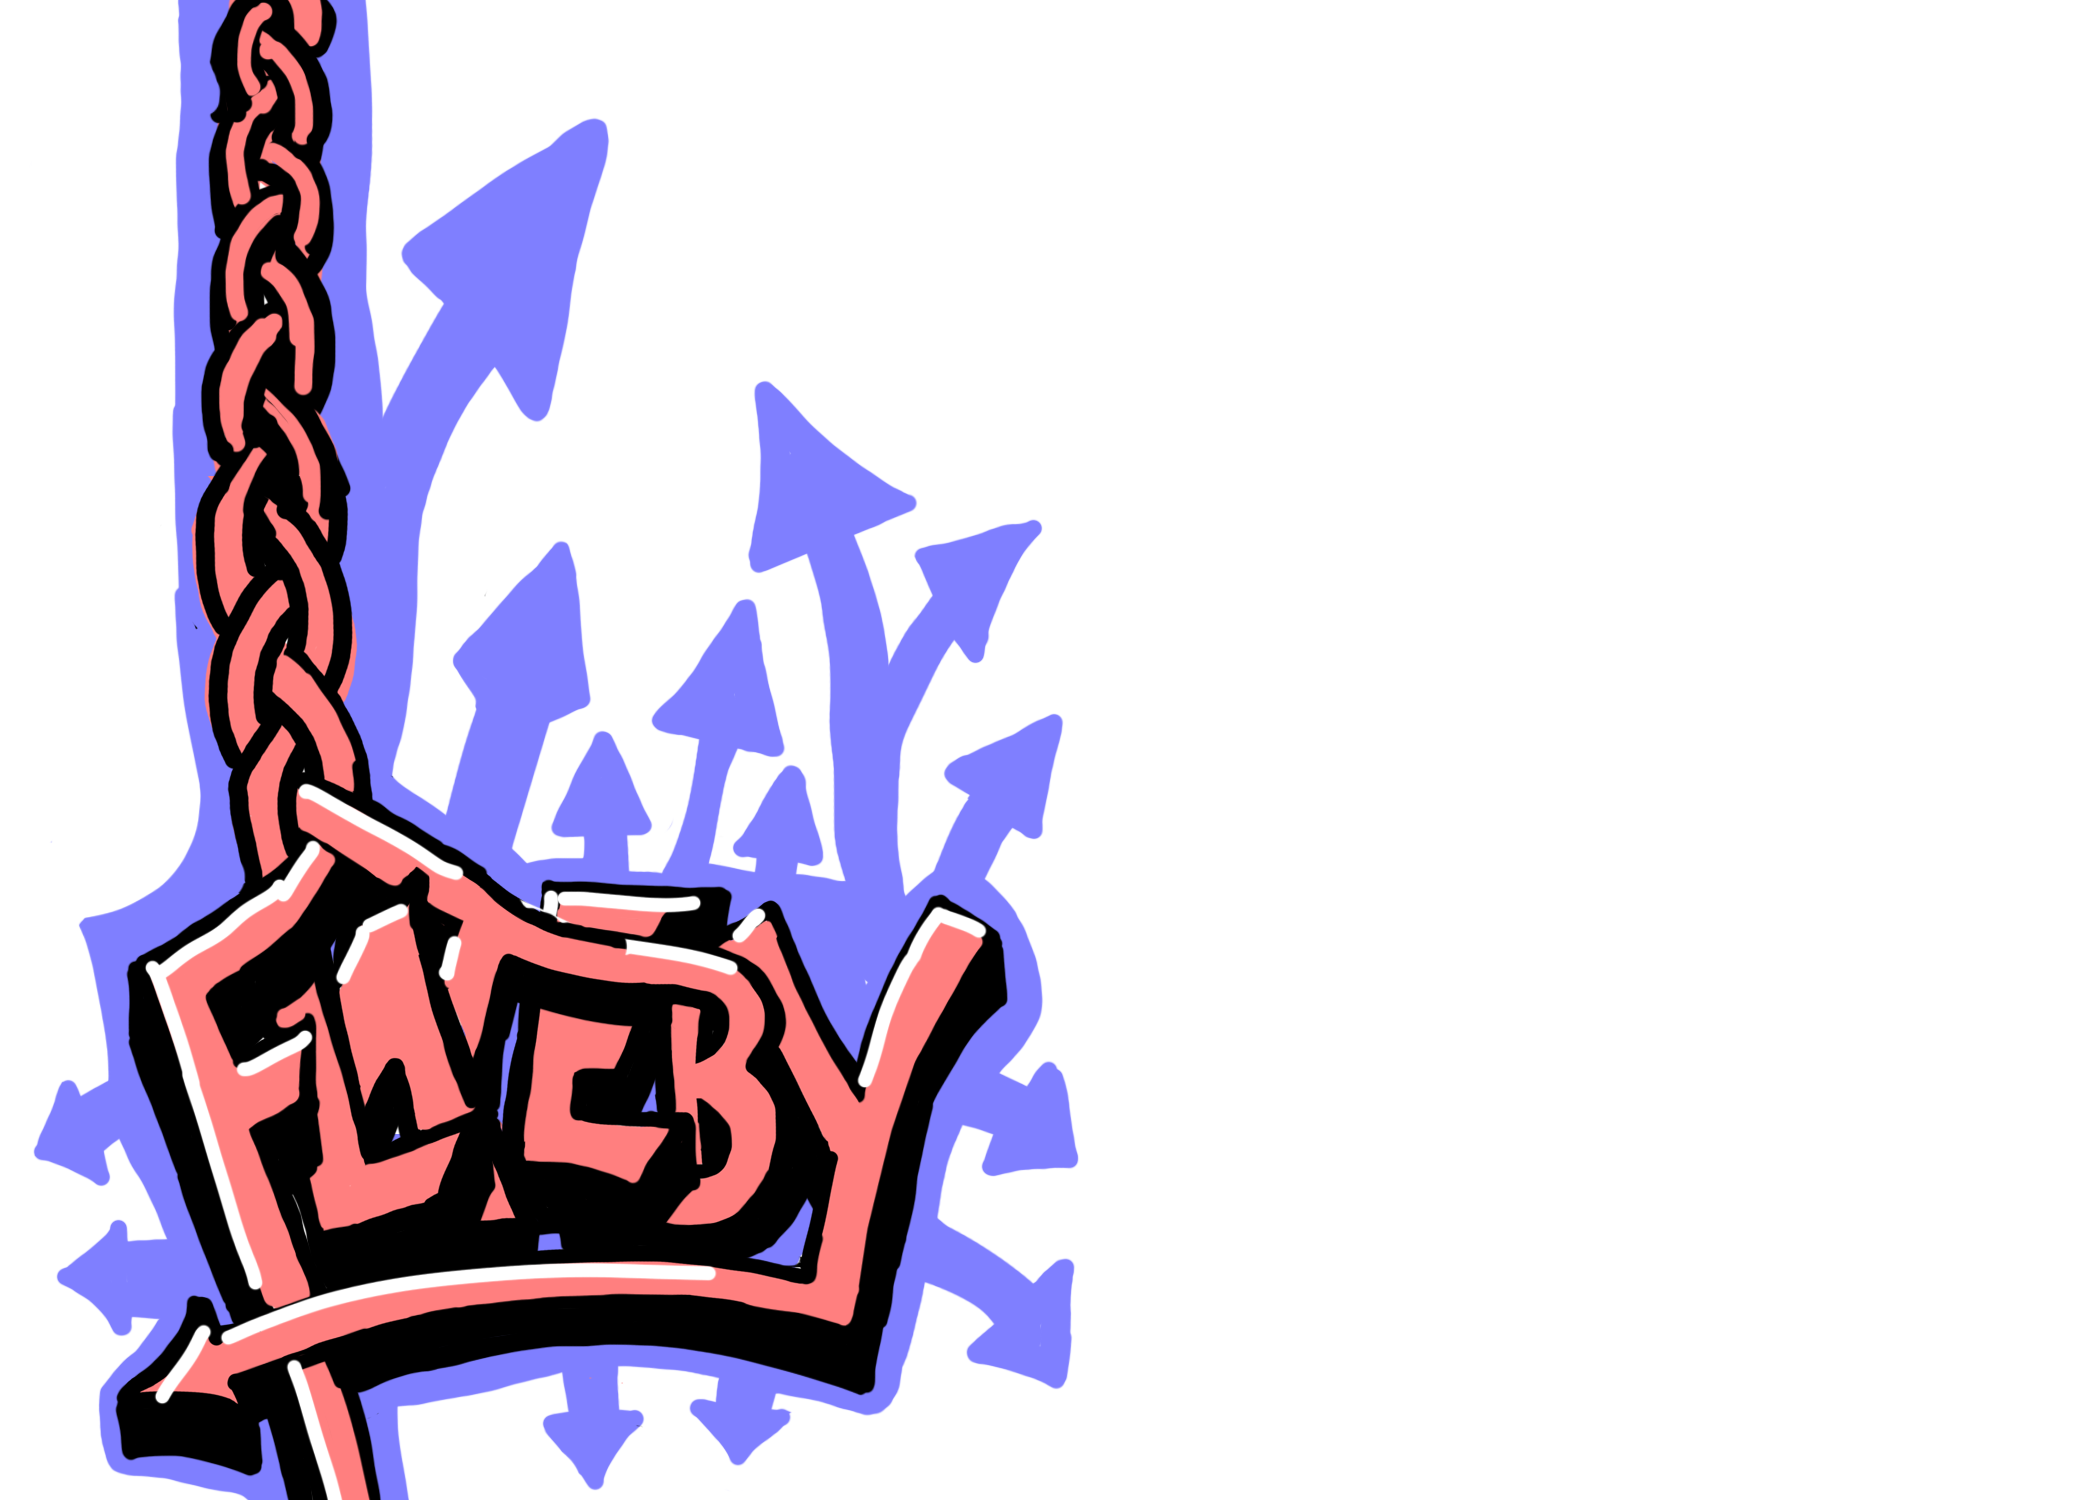
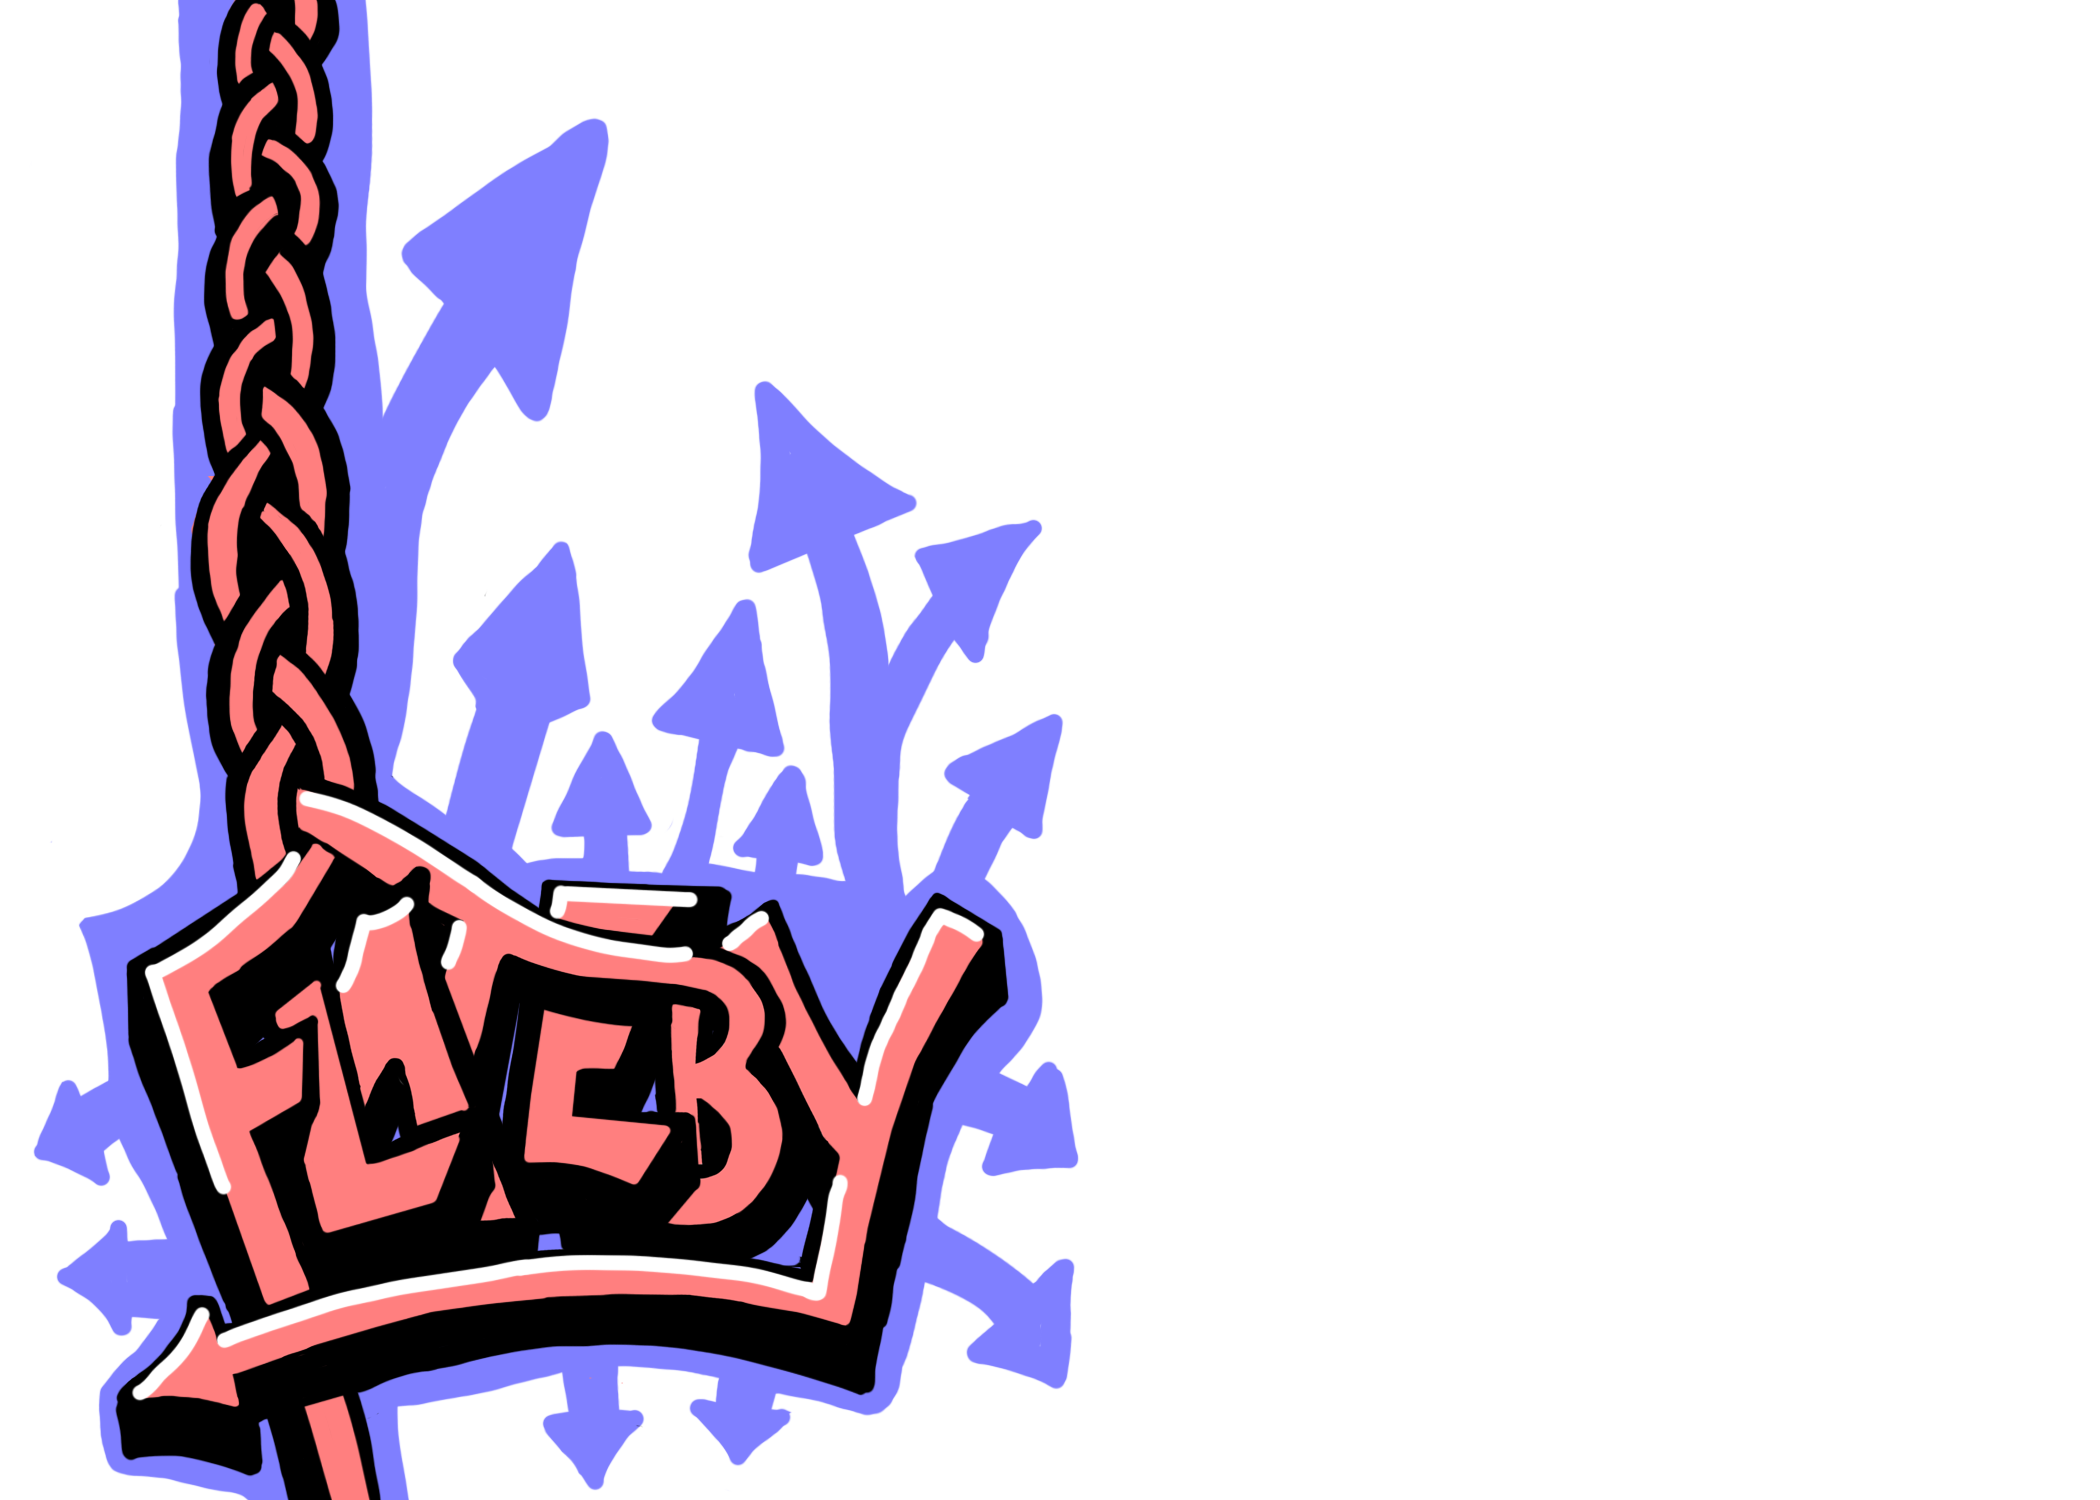
Update some more splashers

diff --git a/src/waller.js b/src/waller.js
@@ -30,9 +30,17 @@
         new THREE.MeshBasicMaterial({
           transparent: true,
         }));
+      this.splashoBackBillboard = new THREE.Mesh(
+        new THREE.PlaneGeometry(splashoScale * 2100 / 1500, splashoScale),
+        new THREE.MeshBasicMaterial({
+          transparent: true,
+        }));
 
       this.scene.add(this.splashoBillboard);
+      this.scene.add(this.splashoBackBillboard);
 
+      this.flatShadeTexture = Loader.loadTexture('res/flatshadesociety-graffiti.png');
+      this.flatShadeSpinnerTexture = Loader.loadTexture('res/flatshadesociety-spinner-graffiti.png');
       this.skogTexture = Loader.loadTexture('res/skog-graffiti.png');
       this.demoTexture = Loader.loadTexture('res/demo-graffiti.png');
       this.campingTexture = Loader.loadTexture('res/camping-graffiti.png');
@@ -375,8 +383,35 @@
       /* splashers */
 
       this.splashoBillboard.position.z = 0.1;
+      this.splashoBackBillboard.visible = false;
+      this.splashoBackBillboard.position.z = 0.08;
+      this.splashoBillboard.material.opacity = 1;
+      this.splashoBackBillboard.material.opacity = 1;
+      this.splashoBillboard.scale.set(1, 1, 1);
+      this.splashoBackBillboard.scale.set(1, 1, 1);
       const BAR = BEAN / 24 | 0;
-      if(BAR >= 9 && BAR < 10) {
+      if(BAR >= 5 && BAR < 6) {
+        const t = F(frame,  5 * 24, 24);
+        const t2 = F(frame, 6 * 24 - 6, 6);
+        //this.camera.position.x = lerp(-0.05, -0.12, t);
+        //this.camera.position.y = -0.03;
+        //this.camera.position.z = 0.38;
+
+        this.splashoBillboard.visible = true;
+        this.splashoBillboard.position.x = 0;
+        this.splashoBillboard.position.y = 0;
+        this.splashoBillboard.material.map = this.flatShadeTexture;
+        this.splashoBackBillboard.visible = true;
+        this.splashoBackBillboard.material.map = this.flatShadeSpinnerTexture;
+        this.splashoBackBillboard.rotation.z = lerp(0, - Math.PI * 1.4, F(frame, 120, 24));
+        this.splashoBackBillboard.position.y = -0.005;
+        const scaler = easeOut(1, 0, F(frame, 138, 3));
+        this.light1.angle = easeOut(0.85, 0.65, F(frame, 138, 3));
+        this.splashoBillboard.scale.set(scaler, scaler, 1);
+        this.splashoBackBillboard.scale.set(scaler, scaler, 1);
+        this.splashoBillboard.material.opacity = scaler;
+        this.splashoBackBillboard.material.opacity = scaler;
+      } else if(BAR >= 9 && BAR < 10) {
         const t = F(frame,  9 * 24, 24);
         const t2 = F(frame, 10 * 24 - 6, 6);
         this.camera.position.x = lerp(-0.05, -0.12, t);

diff --git a/src/splasherNode.js b/src/splasherNode.js
@@ -9,6 +9,7 @@
       super(id, options);
 
       this.flatshadeMap = Loader.loadTexture('res/flatshadesociety-graffiti.png');
+      this.flatshadeSpinnerMap = Loader.loadTexture('res/flatshadesociety-spinner-graffiti.png');
       this.flatebyMap = Loader.loadTexture('res/flateby-marker-overlay-graffiti.png');
       this.solMap = Loader.loadTexture('res/sol-graffiti.png');
       this.skogMap = Loader.loadTexture('res/skog-graffiti.png');
@@ -37,8 +38,10 @@
       this.uniforms.framiness.value = 1;
       const BAR = BEAN / 24;
       if(BAR >= 5 && BAR < 6) {
+        /*
         this.uniforms.overlayer.value = 1;
         this.uniforms.image.value = this.flatshadeMap;
+        this.uniforms.spinnerImage.value = this.flatshadeSpinnerMap;
         const scaler = elasticOut(1.0, .1, 1, F(frame, 5 * 24, 3)) * 0.9;
         this.uniforms.xScale.value = 2100 / 1500 * scaler;
         this.uniforms.yScale.value = 1 * scaler * 1.2;
@@ -54,6 +57,7 @@
         this.uniforms.overlayer.value = lerp(1, 0, F(frame, 5 * 24 + 12 + 6, 6));
         this.uniforms.backgroundiness.value = 0;
         this.uniforms.framiness.value = 0;
+        */
       }
         /*
       if(BAR >= 9 && BAR < 10) {
